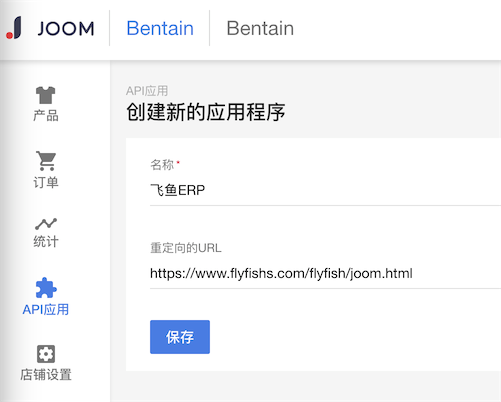
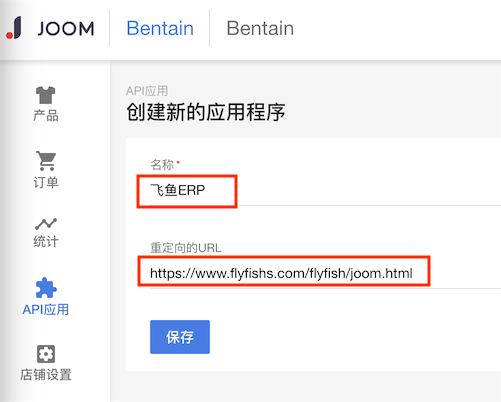
重复授权

Changed region(s): [[0.2695, 0.6269, 0.8683, 0.7164], [0.2695, 0.4179, 0.479, 0.5373]]

diff --git a/src/main/java/com/songxinjing/flyfish/controller/JoomController.java b/src/main/java/com/songxinjing/flyfish/controller/JoomController.java
@@ -1,7 +1,9 @@
 package com.songxinjing.flyfish.controller;
 
 import java.sql.Timestamp;
+import java.util.HashMap;
 import java.util.List;
+import java.util.Map;
 
 import javax.servlet.http.HttpServletRequest;
 
@@ -55,11 +57,32 @@ public class JoomController extends BaseController {
 	@RequestMapping(value = "joom/storeadd", method = RequestMethod.POST)
 	public String storeadd(HttpServletRequest request, Model model, String name, String clientId, String clientSecret) {
 		logger.info("新增Joom店铺授权");
+		
+		String hql = "from JoomStore where name = :name";
+		Map<String, Object> paraMap = new HashMap<String, Object>();
+		paraMap.put("name", name);
+		@SuppressWarnings("unchecked")
+		List<JoomStore> list = (List<JoomStore>) joomStoreService.findHql(hql, paraMap);
+		if (list != null && !list.isEmpty()) {
+			model.addAttribute("errorMsg", "该店铺名称已被使用，请更换名称，便于区分!!!");
+			return "system/error";
+		}
+		
+		hql = "from JoomStore where clientId = :clientId";
+		paraMap.clear();
+		paraMap = new HashMap<String, Object>();
+		paraMap.put("clientId", clientId);
+		@SuppressWarnings("unchecked")
+		List<JoomStore> list2 = (List<JoomStore>) joomStoreService.findHql(hql, paraMap);
+		if (list2 != null && !list2.isEmpty()) {
+			model.addAttribute("errorMsg", "该店铺已存在，店铺名称为：" + list2.get(0).getName());
+			return "system/error";
+		}
+
 		JoomStore store = new JoomStore();
 		store.setName(name);
 		store.setClientId(clientId);
 		store.setClientSecret(clientSecret);
-		// 获取用户登录信息
 		int id = (Integer) joomStoreService.save(store);
 		request.getSession().setAttribute(JoomConstant.SESSION_JOOM_OAUTH_STORE, id);
 		String oauthUrl = JoomConstant.JOOM_OAUTH_URL + clientId;
@@ -81,10 +104,21 @@ public class JoomController extends BaseController {
 				JSONObject data = json.getJSONObject("data");
 				String accessToken = data.getString("access_token");
 				String refreshToken = data.getString("refresh_token");
-				Timestamp expiryTime = new Timestamp(data.getLong("expiry_time"));
+				Timestamp expiryTime = new Timestamp(data.getLong("expiry_time") * 1000);
+				String merchantId = data.getString("merchant_user_id");
+				String hql = "from JoomStore where merchantId = :merchantId";
+				Map<String, Object> paraMap = new HashMap<String, Object>();
+				paraMap.put("merchantId", merchantId);
+				@SuppressWarnings("unchecked")
+				List<JoomStore> list = (List<JoomStore>) joomStoreService.findHql(hql, paraMap);
+				if (list != null && !list.isEmpty()) {
+					model.addAttribute("errorMsg", "该店铺已存在，店铺名称为：" + list.get(0).getName());
+					return "system/error";
+				}
 				store.setAccessToken(accessToken);
 				store.setRefreshToken(refreshToken);
 				store.setExpiryTime(expiryTime);
+				store.setMerchantId(merchantId);
 				joomStoreService.update(store);
 			}
 		} catch (JoomException e) {
@@ -96,12 +130,32 @@ public class JoomController extends BaseController {
 
 	@RequestMapping(value = "joom/storemodify", method = RequestMethod.POST)
 	public String storemodify(HttpServletRequest request, Model model, int id, String name) {
-		logger.info("修改虚拟店铺");
+		logger.info("修改Joom店铺");
+		String hql = "from JoomStore where name = :name and id != :id";
+		Map<String, Object> paraMap = new HashMap<String, Object>();
+		paraMap.put("name", name);
+		paraMap.put("id", id);
+		@SuppressWarnings("unchecked")
+		List<JoomStore> list = (List<JoomStore>) joomStoreService.findHql(hql, paraMap);
+		if (list != null && !list.isEmpty()) {
+			model.addAttribute("errorMsg", "该店铺名称已被使用，请更换名称，便于区分!!!");
+			return "system/error";
+		}
+		
 		JoomStore store = joomStoreService.find(id);
 		store.setName(name);
 		// 获取用户登录信息
 		joomStoreService.update(store);
 		return storelist(model);
+	}
+
+	@RequestMapping(value = "joom/reauth", method = RequestMethod.GET)
+	public String reauth(HttpServletRequest request, Model model, int id) {
+		logger.info("重新授权店铺");
+		JoomStore store = joomStoreService.find(id);
+		request.getSession().setAttribute(JoomConstant.SESSION_JOOM_OAUTH_STORE, id);
+		String oauthUrl = JoomConstant.JOOM_OAUTH_URL + store.getClientId();
+		return "redirect:" + oauthUrl;
 	}
 
 	@RequestMapping(value = "joom/productlist", method = RequestMethod.GET)

diff --git a/src/main/java/com/songxinjing/flyfish/util/SftpUtil.java b/src/main/java/com/songxinjing/flyfish/util/SftpUtil.java
@@ -62,7 +62,7 @@ public class SftpUtil {
 			remoteFile.copyFrom(localFile, Selectors.SELECT_SELF);
 			return true;
 		} catch (MalformedURLException | FileSystemException | URISyntaxException e) {
-			logger.error("图片上传失败！" + name + " " + url, e);
+			logger.error("图片自动上传失败！" + name + " " + url);
 			return false;
 		}
 	}
@@ -79,7 +79,7 @@ public class SftpUtil {
 			remoteFile.copyFrom(localFile, Selectors.SELECT_SELF);
 			return true;
 		} catch (FileSystemException | URISyntaxException e) {
-			logger.error("图片上传失败！" + name, e);
+			logger.error("图片人工上传失败！" + name);
 			return false;
 		}
 

diff --git a/src/main/java/com/songxinjing/flyfish/excel/ExcelUtil.java b/src/main/java/com/songxinjing/flyfish/excel/ExcelUtil.java
@@ -123,11 +123,12 @@ public class ExcelUtil {
 		List<String> titles = new ArrayList<String>();
 		for (int i = 0; i < colNum; i++) {
 			cell = titleRow.getCell(i);
-			String cellVal = cell.getStringCellValue();
-			if (StringUtils.isEmpty(cellVal)) {
-				continue;
+			if(cell != null){
+				String cellVal = cell.getStringCellValue();
+				if (StringUtils.isNotEmpty(cellVal)) {
+					titles.add(i, cellVal);
+				}
 			}
-			titles.add(i, cellVal);
 		}
 		return titles;
 	}
